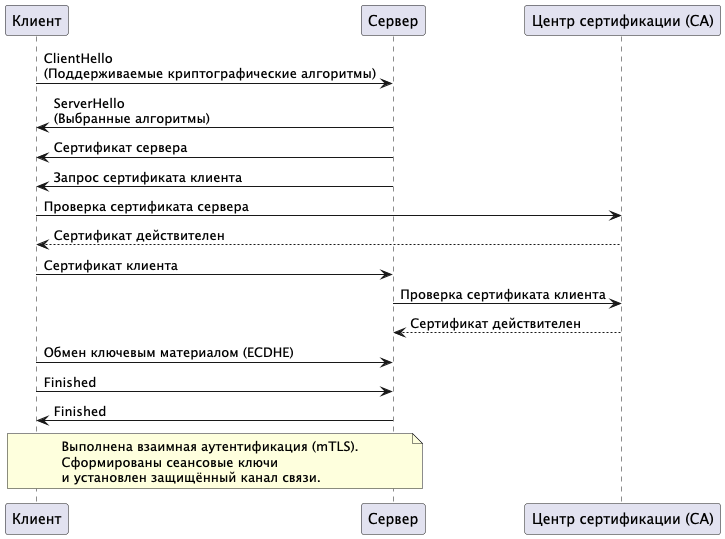
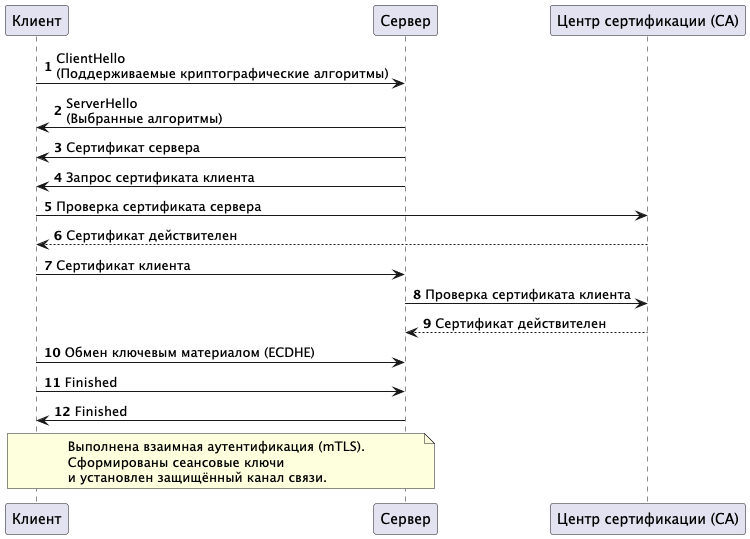
Added autonumbering

diff --git a/chapters/006_chapter1.tex b/chapters/006_chapter1.tex
@@ -149,7 +149,7 @@ TLS гарантирует:
 В mTLS как клиент, так и сервер представляют и проверяют сертификаты, подтверждающие их идентичность~\cite{NIST2023}.
 Процесс установления mTLS-соединения включает следующие этапы:
 
-% TODO: diagram
+% TODO: Диаграмма уже добавлена. Надо сослаться на нее в тексте и списком ниже словесно описать, что происходит.
 \begin{enumerate}
   \item Клиент инициирует TLS-handshake, отправляя поддерживаемые криптографические алгоритмы;
   \item Сервер выбирает алгоритмы и отправляет свой сертификат;
